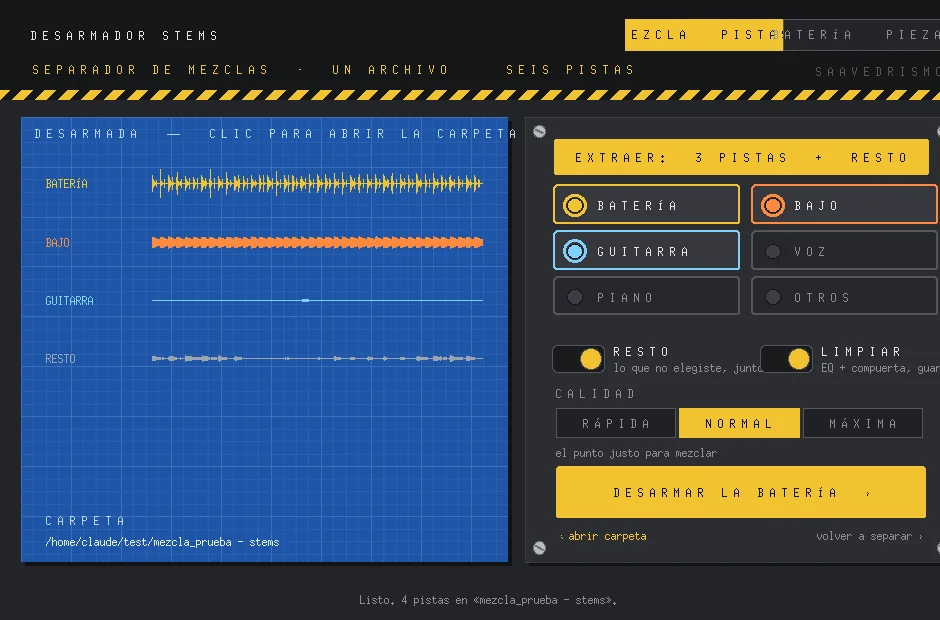
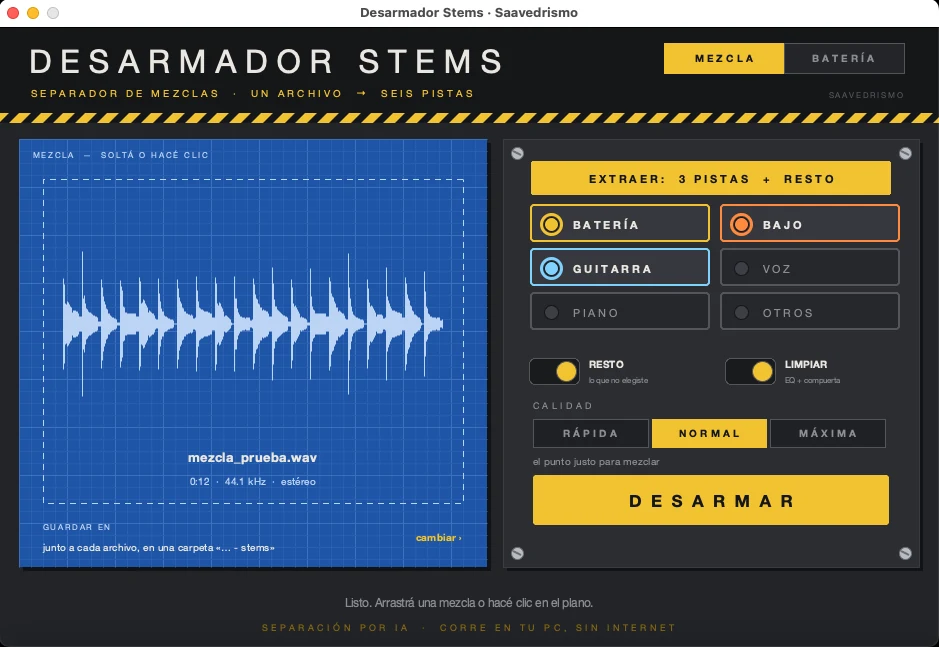
Desarmador Stems y Limpiador: versiones para Mac

diff --git a/index.html b/index.html
@@ -352,10 +352,10 @@ footer p{margin:0 0 12px;color:var(--tinta-2);font-size:16.5px;max-width:36em}
         <ul>
           <li><a href="#lirio"><b>Lirio</b><small>Máquina de acordes</small><em>Windows, Mac<br>y navegador</em></a></li>
           <li><a href="#niebla"><b>Niebla Studio</b><small>Sintetizador ambiental</small><em>Windows, Mac<br>y navegador</em></a></li>
-          <li><a href="#desarmador-stems"><b>Desarmador Stems</b><small>Separa canciones en pistas con IA</small><em>Windows</em></a></li>
+          <li><a href="#desarmador-stems"><b>Desarmador Stems</b><small>Separa canciones en pistas con IA</small><em>Windows y Mac</em></a></li>
           <li><a href="#bowery"><b>Bowery NY Crush</b><small>Compresor paralelo</small><em>Windows</em></a></li>
           <li><a href="#desarmador"><b>Desarmador</b><small>Separa una batería grabada con un micrófono</small><em>Windows</em></a></li>
-          <li><a href="#limpiador"><b>Limpiador</b><small>Limpia pistas separadas por IA</small><em>Windows</em></a></li>
+          <li><a href="#limpiador"><b>Limpiador</b><small>Limpia pistas separadas por IA</small><em>Windows y Mac</em></a></li>
           <li><a href="#hurlingham"><b>Hurlingham 810</b><small>Equipo valvular de bajo</small><em>Windows</em></a></li>
           <li><a href="#latex"><b>Latex Board</b><small>Pedalera de guitarra</small><em>Windows</em></a></li>
         </ul>
@@ -440,7 +440,7 @@ footer p{margin:0 0 12px;color:var(--tinta-2);font-size:16.5px;max-width:36em}
 
     <article class="ficha" id="desarmador-stems">
       <figure class="pantalla">
-        <img src="img/desarmador-stems.webp" width="940" height="620" loading="lazy" alt="Interfaz de Desarmador Stems: plano azul con las formas de onda de batería, bajo, guitarra y resto, y panel con lámparas para elegir pistas y el botón Desarmar la batería">
+        <img src="img/desarmador-stems.webp" width="939" height="647" loading="lazy" alt="Interfaz de Desarmador Stems: plano azul con la forma de onda del tema cargado, pestañas Mezcla y Batería, y panel con lámparas para elegir las pistas y el botón Desarmar">
       </figure>
       <div>
         <h3>Desarmador Stems</h3>
@@ -453,8 +453,9 @@ footer p{margin:0 0 12px;color:var(--tinta-2);font-size:16.5px;max-width:36em}
         </ul>
         <div class="bajar">
           <a class="btn" href="https://github.com/nikokubrick/saavedrismo/releases/download/descargas/Desarmador-Stems-Instalador-1.1.exe" download><b>Descargar para Windows</b><span>Instalador, 370 MB</span></a>
+          <a class="btn" href="https://github.com/nikokubrick/saavedrismo/releases/download/descargas/Desarmador-Stems-1.1-Mac-AppleSilicon.zip" download><b>Descargar para Mac con chip M</b><span>Zip, 482 MB</span></a>
         </div>
-        <p class="nota">Versión 1.1 · Windows 10/11 de 64 bits. Tarda unos minutos por tema, según tu compu. Modelos libres: Demucs (Meta) y DrumSep (aufr33 y jarredou). La versión para Mac está en camino.</p>
+        <p class="nota">Versión 1.1 · Windows 10/11 de 64 bits. Tarda unos minutos por tema, según tu compu. Mac con chip M (M1 a M4) y macOS 14 o más nuevo; la versión para Mac con Intel llega en un rato. Modelos libres: Demucs (Meta) y DrumSep (aufr33 y jarredou).</p>
       </div>
     </article>
   </div>
@@ -512,7 +513,11 @@ footer p{margin:0 0 12px;color:var(--tinta-2);font-size:16.5px;max-width:36em}
           <li>Compuerta espectral contra los restos de la separación, y control entre golpes para bombo, redoblante y toms</li>
           <li>Nueve tipos de pista con sus ajustes, y un botón para escuchar solo lo que se quita</li>
         </ul>
-        <div class="bajar"><a class="btn" href="https://github.com/nikokubrick/saavedrismo/releases/download/descargas/Limpiador-VST3-Windows.zip" download><b>Descargar para Windows</b><span>VST3, 0,8 MB</span></a></div>
+        <div class="bajar">
+          <a class="btn" href="https://github.com/nikokubrick/saavedrismo/releases/download/descargas/Limpiador-VST3-Windows.zip" download><b>Descargar para Windows</b><span>VST3, 0,8 MB</span></a>
+          <a class="btn" href="https://github.com/nikokubrick/saavedrismo/releases/download/descargas/Limpiador-Mac.zip" download><b>Descargar para Mac</b><span>AU y VST3, 2,1 MB</span></a>
+        </div>
+        <p class="nota">En Mac funciona con chip M y con Intel, en Ableton y cualquier DAW con AU o VST3. Tiene unos 70 ms de latencia, que el DAW compensa solo.</p>
       </div>
     </article>
 
